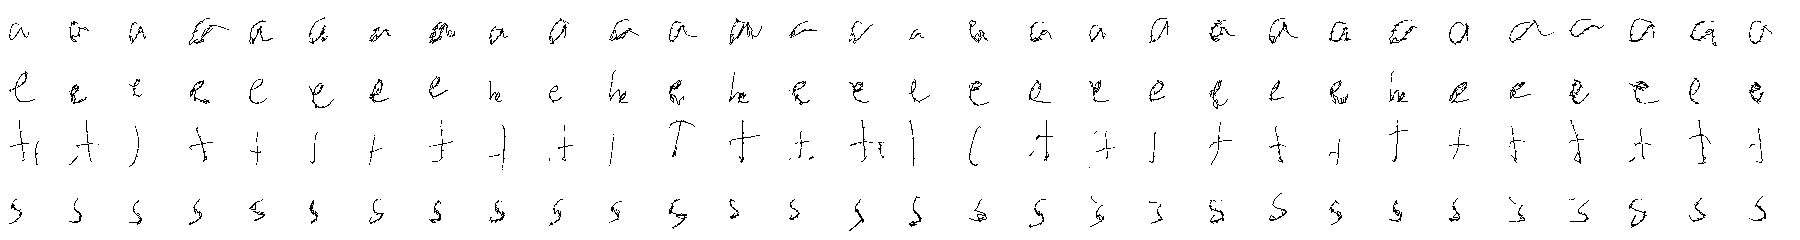
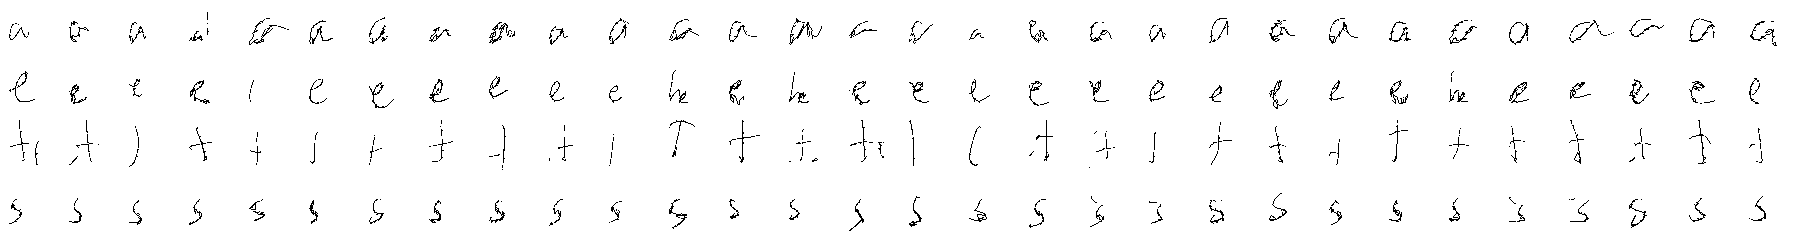
Source-text labeler (capitals sheet: 244 words), vectorised segmentation DP, capital filter fix, word outlier filter

diff --git a/inkclone/label_source.py b/inkclone/label_source.py
@@ -1,0 +1,118 @@
+"""Label a handwritten page from its typed source text instead of the OCR text.
+
+GoodNotes' OCR boxes are good at *where* the words are and bad at *what* they say.
+When we know what the writer copied, align the OCR boxes (in reading order) to the
+source tokens with a fuzzy sequence alignment (1 or 2 boxes per token, skips on both
+sides), and label each matched box group with the source token.
+"""
+import re, json, difflib
+import numpy as np
+from .align import load, assign_strokes, save_samples
+
+PUNCT = ".,;:!?()\"'"
+
+
+def reading_order(words):
+    """Group OCR boxes into lines by vertical overlap, return boxes sorted line by line."""
+    lines = []
+    for w in sorted(words, key=lambda w: (w["bbox"][1], w["bbox"][0])):
+        y0, y1 = w["bbox"][1], w["bbox"][3]
+        for ln in lines:
+            ly0, ly1 = ln["y"]
+            if min(y1, ly1) - max(y0, ly0) > 0.4 * min(y1 - y0, ly1 - ly0):
+                ln["ws"].append(w); ln["y"] = (min(y0, ly0), max(y1, ly1)); break
+        else:
+            lines.append({"ws": [w], "y": (y0, y1)})
+    lines.sort(key=lambda ln: ln["y"][0])
+    out = []
+    for ln in lines: out += sorted(ln["ws"], key=lambda w: w["bbox"][0])
+    return out
+
+
+def sim(a, b):
+    a, b = a.strip(PUNCT).lower(), b.strip(PUNCT).lower()
+    if not a or not b: return 0.0
+    return difflib.SequenceMatcher(None, a, b).ratio()
+
+
+def align_tokens(boxes, tokens, gap=-0.45, min_sim=0.5):
+    """Needleman-Wunsch over OCR boxes (i) and source tokens (j). Moves: 1 box->1 token,
+    2 boxes->1 token (merged text), skip box, skip token. Returns list of (box_ids, token_idx)."""
+    n, m = len(boxes), len(tokens)
+    S = np.full((n + 1, m + 1), -1e9); B = {}
+    S[0, :] = np.arange(m + 1) * gap; S[:, 0] = np.arange(n + 1) * gap
+    txt = [b["text"] for b in boxes]
+    for i in range(1, n + 1):
+        for j in range(1, m + 1):
+            best, mv = S[i-1, j] + gap, ("skipb",)
+            if S[i, j-1] + gap > best: best, mv = S[i, j-1] + gap, ("skipt",)
+            s1 = sim(txt[i-1], tokens[j-1])
+            if s1 >= min_sim and S[i-1, j-1] + s1 > best: best, mv = S[i-1, j-1] + s1, ("m1",)
+            if i >= 2:
+                s2 = sim(txt[i-2] + txt[i-1], tokens[j-1])
+                if s2 >= min_sim and S[i-2, j-1] + s2 - 0.1 > best: best, mv = S[i-2, j-1] + s2 - 0.1, ("m2",)
+            S[i, j] = best; B[i, j] = mv
+    i, j, out = n, m, []
+    while i > 0 and j > 0:
+        mv = B[i, j][0]
+        if mv == "m1": out.append(([i-1], j-1)); i -= 1; j -= 1
+        elif mv == "m2": out.append(([i-2, i-1], j-1)); i -= 2; j -= 1
+        elif mv == "skipb": i -= 1
+        else: j -= 1
+    return out[::-1]
+
+
+def trim_edge_punct(strokes, label):
+    """Drop small strokes (comma/period sized) hanging off the left edge of the word, and off
+    the right edge when the label carries no trailing punctuation."""
+    if len(strokes) < 2: return strokes
+    allp = np.vstack([s[:, :2] for s in strokes]); h = allp[:, 1].max() - allp[:, 1].min()
+    ext = [s[:, :2].max(0) - s[:, :2].min(0) for s in strokes]
+    small = [max(e) < 0.3 * h for e in ext]
+    big_x0 = min(s[:, 0].min() for s, sm in zip(strokes, small) if not sm) if not all(small) else allp[:, 0].min()
+    big_x1 = max(s[:, 0].max() for s, sm in zip(strokes, small) if not sm) if not all(small) else allp[:, 0].max()
+    keep = []
+    for s, sm in zip(strokes, small):
+        cx = s[:, 0].mean()
+        if sm and cx < big_x0 - 0.05 * h: continue
+        if sm and label[-1] not in PUNCT and cx > big_x1 + 0.05 * h and s[:, 1].mean() > allp[:, 1].min() + 0.6 * h: continue
+        keep.append(s)
+    return keep
+
+
+def label_pages(pages, source_text):
+    tokens = [t for t in re.findall(r"\S+", source_text) if re.search(r"[A-Za-z]", t)]
+    boxes, page_of = [], []
+    for pi, pg in enumerate(pages):
+        ws = reading_order(pg["words"]); boxes += ws; page_of += [pi] * len(ws)
+    pairs = align_tokens(boxes, tokens)
+    samples, used_tok = [], set()
+    per_page_boxes = {}
+    for ids, tj in pairs:
+        tok = tokens[tj]; ocr = "".join(boxes[i]["text"] for i in ids)
+        # keep trailing punctuation in the label only if the OCR box also captured it
+        label = tok if (tok[-1] in PUNCT and ocr[-1:] in PUNCT) else tok.rstrip(PUNCT)
+        label = label.lstrip(PUNCT)
+        if not re.search(r"[A-Za-z]", label): continue
+        bb = np.array([boxes[i]["bbox"] for i in ids]); bbox = [bb[:, 0].min(), bb[:, 1].min(), bb[:, 2].max(), bb[:, 3].max()]
+        per_page_boxes.setdefault(page_of[ids[0]], []).append({"bbox": bbox, "text": label}); used_tok.add(tj)
+    for pi, wl in per_page_boxes.items():
+        owner = assign_strokes(pages[pi]["strokes"], wl)
+        for wi, w in enumerate(wl):
+            idx = np.flatnonzero(owner == wi)
+            if len(idx) < 1: continue
+            n_letters = len(w["text"].strip(PUNCT))
+            if not (0.3 * n_letters <= len(idx) <= 2.5 * n_letters + 2): continue
+            strokes = trim_edge_punct([pages[pi]["strokes"][i] for i in idx], w["text"])
+            samples.append({"text": w["text"], "page": pi, "bbox": [round(v, 2) for v in w["bbox"]],
+                            "stroke_ids": idx.tolist(), "strokes": strokes})
+    return samples, len(tokens), len(used_tok)
+
+
+if __name__ == "__main__":
+    import sys
+    prefix, src = sys.argv[1], sys.argv[2]
+    pages = load(prefix); samples, n_tok, n_used = label_pages(pages, open(src).read())
+    save_samples(samples, prefix + ".words")
+    print(f"{n_used}/{n_tok} source tokens matched to OCR boxes, {len(samples)} labeled words saved -> {prefix}.words")
+    caps = sum(1 for s in samples if s["text"][0].isupper()); print(f"  {caps} start with a capital; sample: {[s['text'] for s in samples[:12]]}")

diff --git a/inkclone/segment.py b/inkclone/segment.py
@@ -13,13 +13,13 @@ to the letter whose x-span they sit over.
 import json
 import numpy as np
 
-NARROW = set("iljtfr.,;:'!|()[]1"); WIDE = set("mwMW")
+NARROW = set("iljtfr.,;:'!|()[]1IJ"); WIDE = set("mwMW")
 
 
 def default_width_prior():
     pri = {}
     for c in "abcdefghijklmnopqrstuvwxyzABCDEFGHIJKLMNOPQRSTUVWXYZ0123456789":
-        pri[c] = 0.55 if c in NARROW else 1.6 if c in WIDE else 1.0
+        pri[c] = 0.55 if c in NARROW else 1.6 if c in WIDE else 1.8 if c.isupper() else 1.0
     return pri
 
 
@@ -72,16 +72,22 @@ def segment_word(strokes, text, prior, unit=None, lam_join=0.6, lam_width=1.0):
         seg = seq[a:b]; w = seg[:, 0].max() - seg[:, 0].min() if len(seg) else 0.0
         return lam_width * ((w - exp_w[k]) / (0.5 * exp_w[k] + 0.3 * unit)) ** 2
     # DP over (char k, cut index j): best[k][j] = cost of chars 0..k ending at cands[j]
-    C = len(cands); INF = 1e18
+    C = len(cands); INF = 1e18; cand_arr = np.array(cands)
+    jc = np.array([join_cost(c) for c in cands])
+    def wcost_vec(ends, k):
+        """width cost of segments [cands[jp], ends) for all jp with cands[jp] < ends."""
+        # running max/min of x going backwards from `ends`
+        xs = seq[:ends, 0]; rmax = np.maximum.accumulate(xs[::-1])[::-1]; rmin = np.minimum.accumulate(xs[::-1])[::-1]
+        a = cand_arr[cand_arr < ends]; w = rmax[a] - rmin[a]
+        return lam_width * ((w - exp_w[k]) / (0.5 * exp_w[k] + 0.3 * unit)) ** 2
     best = np.full((K, C), INF); back = np.full((K, C), -1, int)
     for j, c in enumerate(cands):
-        best[0, j] = width_cost(0, c, 0) + join_cost(c)
+        best[0, j] = width_cost(0, c, 0) + jc[j]
     for k in range(1, K - 1):
         for j, c in enumerate(cands):
-            for jp in range(j):
-                v = best[k-1, jp] + width_cost(cands[jp], c, k) + join_cost(c)
-                if v < best[k, j]: best[k, j] = v; back[k, j] = jp
-    # last char runs from cut to end
+            if j == 0: continue
+            v = best[k-1, :j] + wcost_vec(c, k)[:j] + jc[j]
+            jp = int(np.argmin(v)); best[k, j] = v[jp]; back[k, j] = jp
     finals = [best[K-2, j] + width_cost(cands[j], N, K-1) for j in range(C)]
     j = int(np.argmin(finals)); cuts = [cands[j]]
     for k in range(K - 2, 0, -1):

diff --git a/inkclone/units.py b/inkclone/units.py
@@ -60,7 +60,16 @@ def build(words, segs, drop_frac=0.3, min_for_filter=20):
             px = min(p[:, 0].min() for p in pieces)
             u = unit(normalise(pieces, px, baseline, xh), ch["char"], src)
             lo, hi = HEIGHT_RANGE[letter_class(ch["char"])]
-            if lo <= u["height"] <= hi and 0.15 <= u["width"] <= 3.5: L[ch["char"]].append(u)
+            if lo <= u["height"] <= hi and 0.15 <= u["width"] <= 4.5: L[ch["char"]].append(u)
+    # whole-word outlier filter: for words seen 3+ times, drop instances whose width or
+    # stroke count is far from that word's median (stray strokes, swallowed neighbours)
+    wrep = [0, 0]
+    for t, insts in list(W.items()):
+        wrep[0] += len(insts)
+        if len(insts) >= 3:
+            wd = np.median([i["width"] for i in insts]); ns = np.median([len(i["pieces"]) for i in insts])
+            W[t] = [i for i in insts if abs(i["width"] - wd) <= 0.35 * wd and abs(len(i["pieces"]) - ns) <= 2]
+        wrep[1] += len(W[t])
     # shape filter on letters
     report = {}
     for c, insts in L.items():
@@ -69,6 +78,7 @@ def build(words, segs, drop_frac=0.3, min_for_filter=20):
         D = np.linalg.norm(X[:, None] - X[None], axis=2); np.fill_diagonal(D, np.inf)
         score = np.sort(D, 1)[:, :5].mean(1); keep = score <= np.quantile(score, 1 - drop_frac)
         L[c] = [i for i, k in zip(insts, keep) if k]; report[c] = (len(insts), int(keep.sum()))
+    report['_words'] = tuple(wrep)
     return dict(W), dict(C), dict(L), report
 
 
@@ -78,4 +88,5 @@ if __name__ == "__main__":
     W, C, L, rep = build(words, d["segs"])
     pickle.dump({"words": W, "chunks": C, "letters": L}, open("data/derived/units.pkl", "wb"))
     print(f"words: {sum(map(len, W.values()))} instances / {len(W)} distinct | chunks: {sum(map(len, C.values()))} / {len(C)} | letters kept: {sum(map(len, L.values()))}")
-    print("letter filter (before->after):", " ".join(f"{c}:{a}->{b}" for c, (a, b) in sorted(rep.items()) if c.islower()))
+    print("word outlier filter (before->after):", rep.pop("_words"))
+    print("capitals kept:", " ".join(f"{c}:{b}" for c, (a, b) in sorted(rep.items()) if c.isupper()))

diff --git a/scripts/run_all.py b/scripts/run_all.py
@@ -9,7 +9,13 @@ for src in sorted(glob.glob("data/raw/*.pdf")):
     t = time.time()
     if not os.path.exists(prefix + ".npz"):
         save(extract_pdf(src), prefix)
-    pages = load(prefix); samples, _ = align(pages); save_samples(samples, prefix + ".words")
+    pages = load(prefix)
+    if os.path.exists(f"data/sources/{name}.txt"):
+        from inkclone.label_source import label_pages
+        samples, _, _ = label_pages(pages, open(f"data/sources/{name}.txt").read())
+    else:
+        samples, _ = align(pages)
+    save_samples(samples, prefix + ".words")
     n_pages = sum(1 for p in pages if p["n_strokes"] > 0); n_strokes = sum(p["n_strokes"] for p in pages)
     rows.append((name, n_pages, n_strokes, len(samples), len({s["text"].lower() for s in samples}), time.time() - t))
     print(f"{name:28s} pages={n_pages:3d} strokes={n_strokes:6d} words={len(samples):4d} distinct={rows[-1][4]:4d} ({rows[-1][5]:.0f}s)", flush=True)

diff --git a/scripts/compare_v3.py b/scripts/compare_v3.py
@@ -27,4 +27,4 @@ for _, img in rows: canvas[y+30:y+30+img.shape[0], 10:10+img.shape[1]] = img; y 
 page = pymupdf.open().new_page(width=W * 72 / dpi, height=H * 72 / dpi)
 page.insert_image(page.rect, pixmap=pymupdf.Pixmap(pymupdf.csRGB, W, H, canvas.tobytes(), False)); y = 0
 for label, img in rows: page.insert_text((10 * 72 / dpi, (y + 20) * 72 / dpi), label, fontsize=4.5, color=(0.7, 0, 0)); y += img.shape[0] + 40
-page.get_pixmap(dpi=300).save("reports/compare_line_v3.png"); print("wrote both")
+page.get_pixmap(dpi=300).save("reports/compare_line_v5.png"); print("wrote both")

diff --git a/inkclone/bank.py b/inkclone/bank.py
@@ -14,7 +14,7 @@ from .segment import load_words
 
 XHEIGHT_LETTERS = set("acemnorsuvwxz"); DESCENDERS = set("gjpqy"); ASCENDERS = set("bdfhklt")
 # plausible normalised ink height per letter class (in x-heights): rejects bad frames/cuts
-HEIGHT_RANGE = {"x": (0.55, 1.8), "asc": (1.1, 3.2), "desc": (1.1, 3.2), "cap": (1.1, 3.4), "other": (0.3, 3.4)}
+HEIGHT_RANGE = {"x": (0.55, 1.8), "asc": (1.1, 3.2), "desc": (1.1, 3.2), "cap": (1.8, 5.5), "other": (0.3, 5.5)}
 
 
 def letter_class(c):

diff --git a/reports/2026-10-06-feasibility.md b/reports/2026-10-06-feasibility.md
@@ -24,3 +24,12 @@ Open question: target documents are math or prose? Math needs its own layout + s
 - Glyph bank with per-class height filter: 3,967 instances. Per-letter grid (`reports/bank_grid_aetDs.png`): only ~65-80% of instances for common letters are clean cuts, the rest carry neighbour fragments. THIS is the current quality bottleneck.
 - First synthesis (`inkclone/synth.py`, `reports/compare_line_v2.png`): recognisably the same letterforms, not passable yet. Causes: dirty instances (above), pen width overestimated 0.66 vs 0.49pt (fixed in extractor: area/perimeter width), sparse capitals (D: 1 clean instance).
 - Next: shape-based outlier rejection per letter, then template-guided re-segmentation (EM), then re-evaluate the grid before touching the synthesiser again.
+
+## Capitals sheet + source-text labeling (evening)
+
+- `inkclone/label_source.py`: labels a page from its typed source via fuzzy sequence alignment of OCR boxes to source tokens (1-2 boxes per token). Capitals sheet: 255/281 tokens matched, 244 words, 48/48 labels correct on the contact sheet.
+- Segmentation DP vectorised: 211s -> 13s for the corpus.
+- Corpus: 1,493 labeled words, 6,169 letter instances. Every capital has >= 4 raw instances.
+- Capital filter bug: writer's capitals are 3.5-4.5 x-heights; range widened to 1.8-5.5. Capital width prior raised to 1.8.
+- Whole-word outlier filter (width / stroke count vs same-word median): 1,489 -> 1,321 word instances.
+- `reports/compare_line_v5.png`: whole-word lines good; assembled words improved (B, F present) but still rough. Letter cuts around capitals are the dirtiest. Next: template-guided re-cutting.
